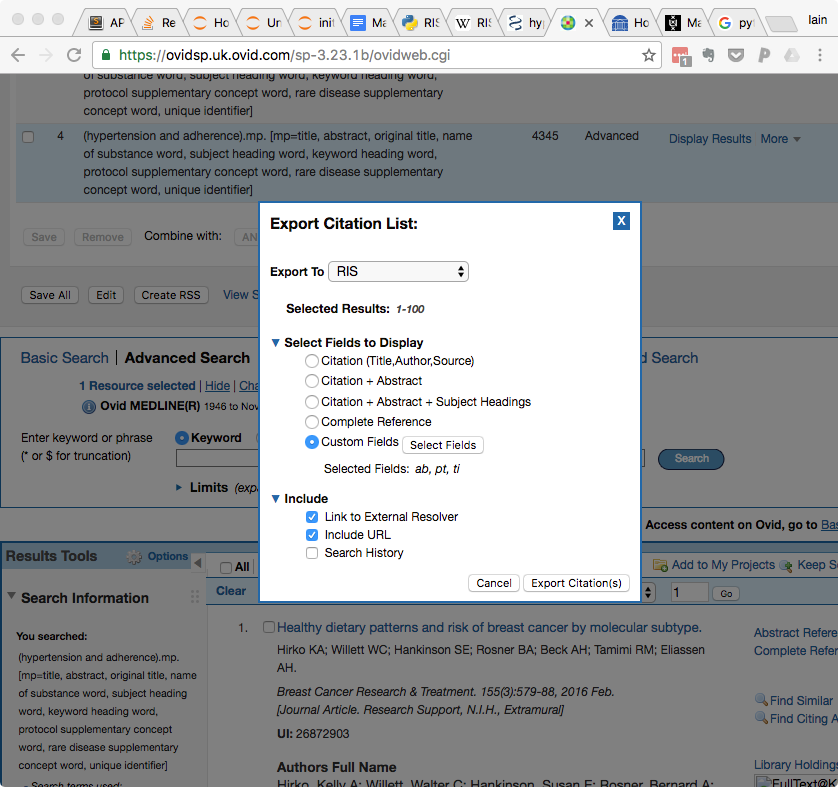
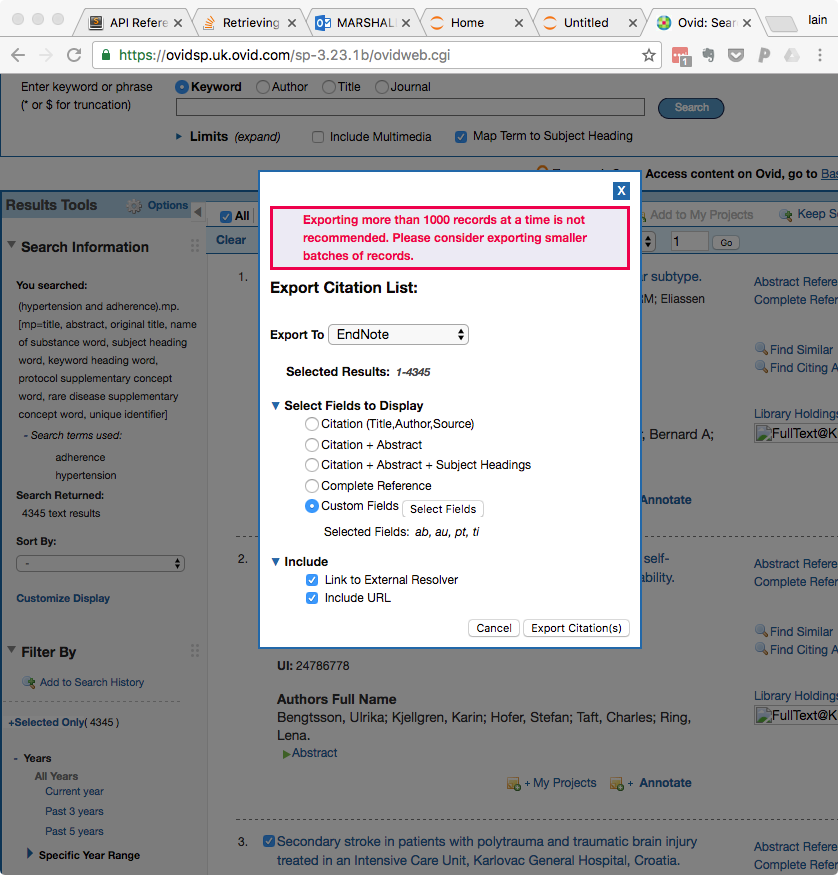
edits

diff --git a/README.md b/README.md
@@ -24,7 +24,7 @@ Then see the instructions below about how to export.
 ## Exporting from Ovid
 
 ![1. Exporting from Ovid - select 'All' in the top left, then click the Export text](ovid_export1.png)
-![2. Exporting from Ovid - select 'RIS' as the export format, then select 'Custom Fields', and click the 'Select Fields' button](ovid_export2.png)
+![2. Exporting from Ovid - select 'EndNote' as the export format, then select 'Custom Fields', and click the 'Select Fields' button](ovid_export2.png) (**Endnote** format includes the 'publication type' field, the **RIS** format does not)
 ![2. Exporting from Ovid - select the following 3 fields to export: *ab*: Abstract, *pt*: Publication Type, and *ti*: Title](ovid_export3.png)
 
 1. Click the tickbox next to **'All'** above the search results on the left hand side.
